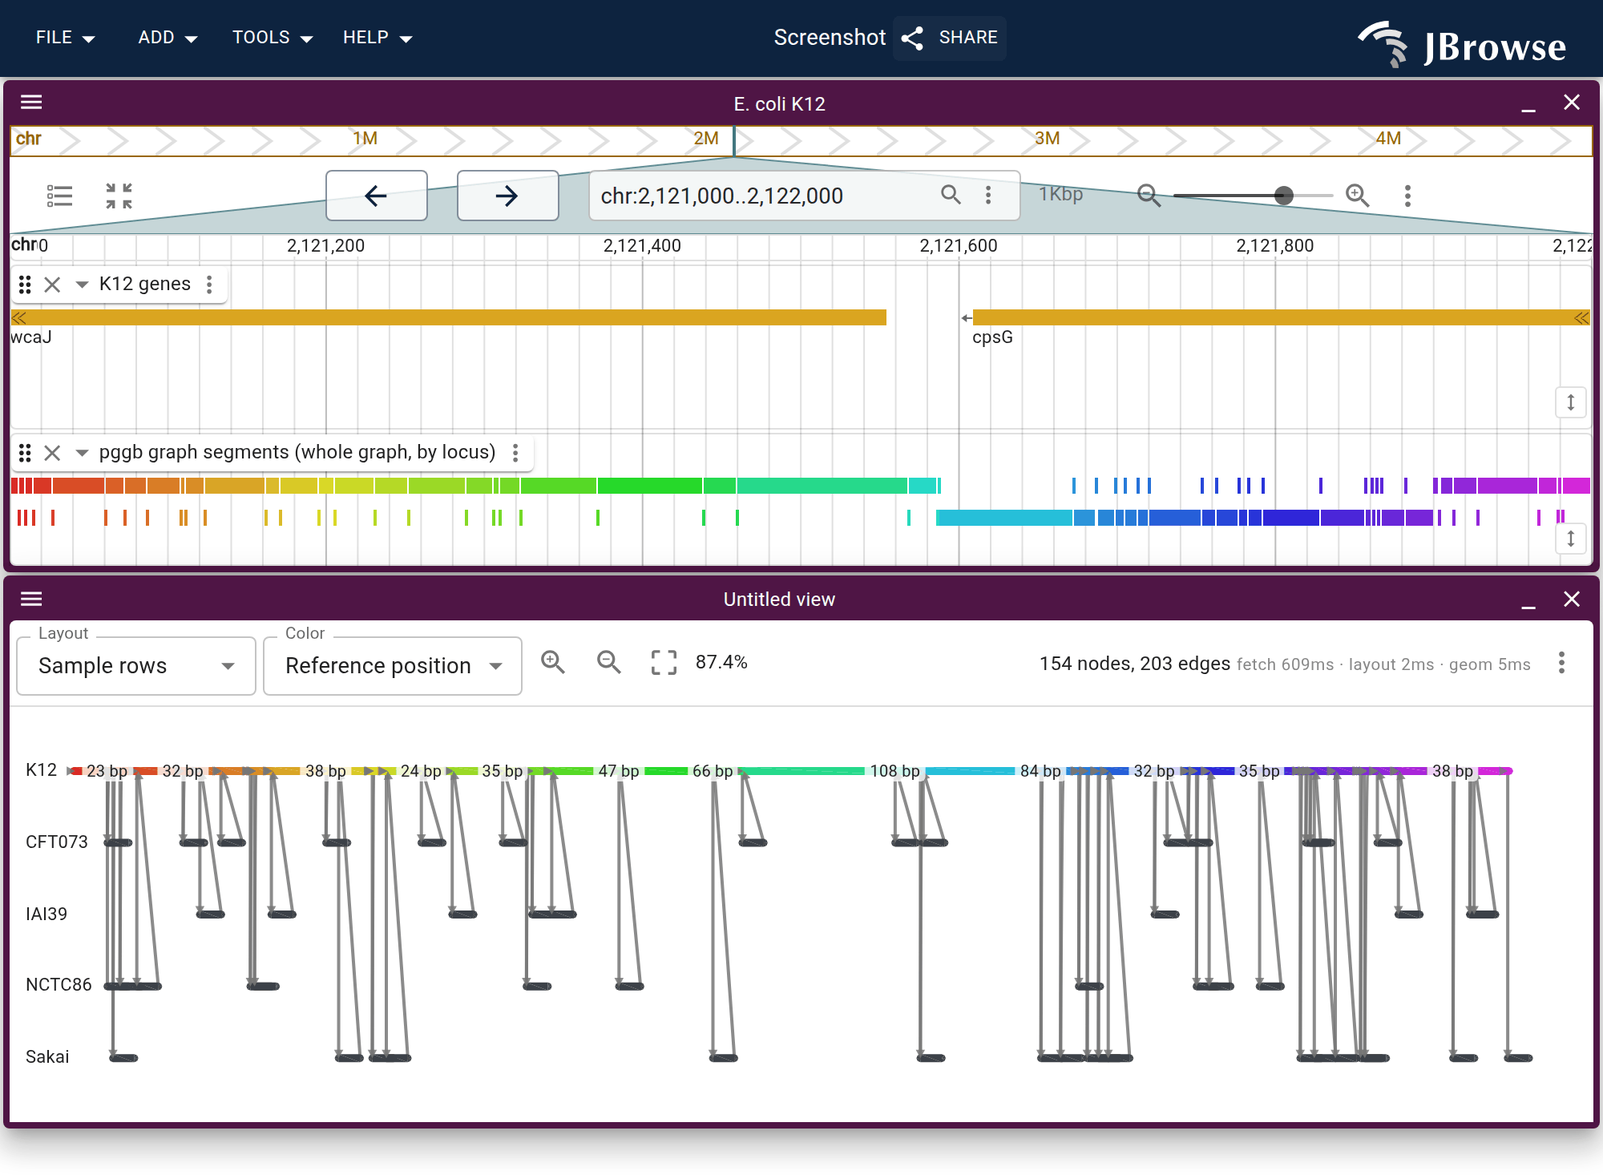
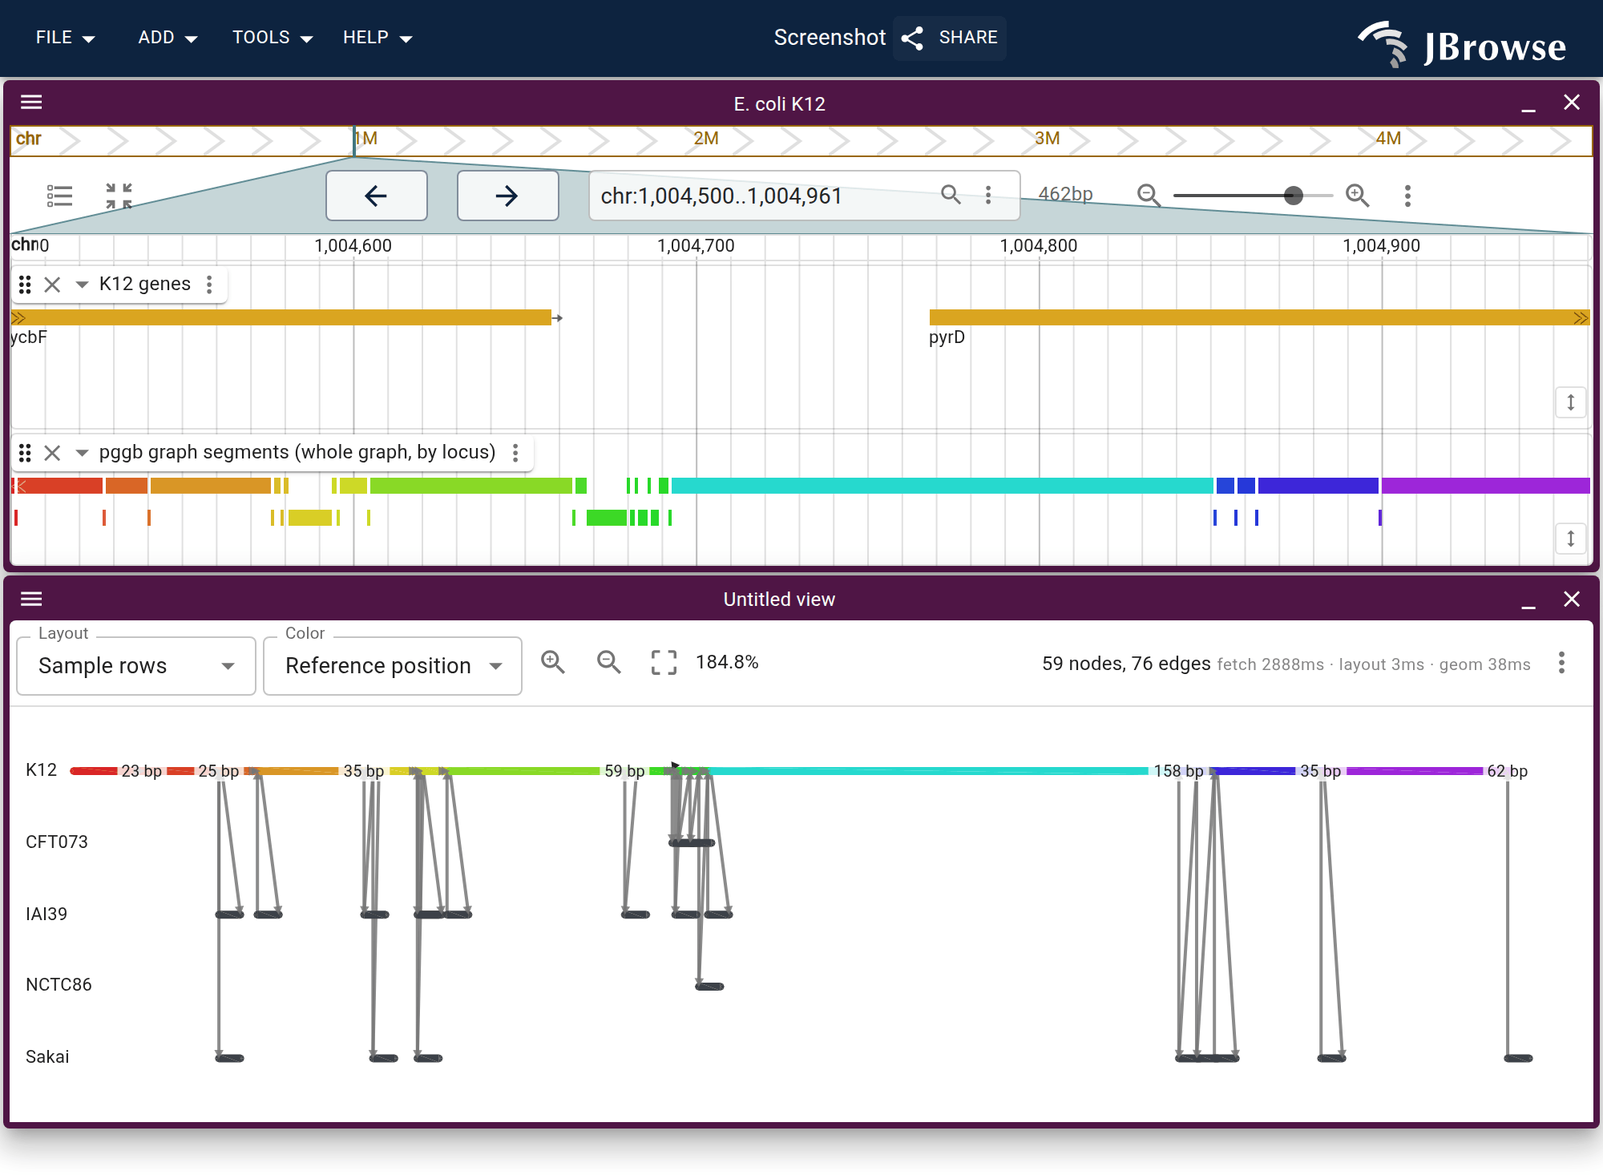
docs(pangenome): draw the pggb sample rows at a window where a row is readable
Open verdict: "too chaotic. too many tiny segments ... I know it shows the per
sample rows but i just dont get it". pggb cuts a segment at every variant, so the
kilobase the backbone-sweep figure uses is 154 nodes at about six pixels each,
and a row of six-pixel marks says nothing about what a strain carries. The rows
figure now takes the 460 bp window local_subgraph already draws, where the same
index returns 37 segments, the long ones are 59 and 158 bp, and the four strains
differ from each other at places a reader can point at. The sweep figure keeps
its kilobase; pggbLocusSession takes the window per figure.

diff --git a/website/src/lib/galleryLinks.generated.ts b/website/src/lib/galleryLinks.generated.ts
@@ -214,7 +214,7 @@ export const specSessionUrls: Record<string, string> = {
   "pangenome_cactus/graph_correspondence": "?config=https%3A%2F%2Fjbrowse.org%2Fdemos%2Fecoli_pangenome%2Fconfig.json&session=spec-%7B%22sessionTracks%22%3A%5B%7B%22type%22%3A%22MultiQuantitativeTrack%22%2C%22trackId%22%3A%22ecoli_cactus_pav_odgi_colors%22%2C%22name%22%3A%22MC%20graph%3A%20per-strain%20presence%20(odgi%20pav%2C%20vs%20K12)%22%2C%22assemblyNames%22%3A%5B%22K12%22%5D%2C%22adapter%22%3A%7B%22type%22%3A%22MultiWiggleAdapter%22%2C%22subadapters%22%3A%5B%7B%22type%22%3A%22BigWigAdapter%22%2C%22name%22%3A%22CFT073%22%2C%22color%22%3A%22rgb(163%2C68%2C151)%22%2C%22bigWigLocation%22%3A%7B%22uri%22%3A%22https%3A%2F%2Fjbrowse.org%2Fdemos%2Fecoli_pangenome%2Fecoli_cactus_pav_CFT073.bw%22%2C%22locationType%22%3A%22UriLocation%22%7D%7D%2C%7B%22type%22%3A%22BigWigAdapter%22%2C%22name%22%3A%22IAI39%22%2C%22color%22%3A%22rgb(114%2C190%2C79)%22%2C%22bigWigLocation%22%3A%7B%22uri%22%3A%22https%3A%2F%2Fjbrowse.org%2Fdemos%2Fecoli_pangenome%2Fecoli_cactus_pav_IAI39.bw%22%2C%22locationType%22%3A%22UriLocation%22%7D%7D%2C%7B%22type%22%3A%22BigWigAdapter%22%2C%22name%22%3A%22NCTC86%22%2C%22color%22%3A%22rgb(200%2C132%2C51)%22%2C%22bigWigLocation%22%3A%7B%22uri%22%3A%22https%3A%2F%2Fjbrowse.org%2Fdemos%2Fecoli_pangenome%2Fecoli_cactus_pav_NCTC86.bw%22%2C%22locationType%22%3A%22UriLocation%22%7D%7D%2C%7B%22type%22%3A%22BigWigAdapter%22%2C%22name%22%3A%22Sakai%22%2C%22color%22%3A%22rgb(164%2C163%2C56)%22%2C%22bigWigLocation%22%3A%7B%22uri%22%3A%22https%3A%2F%2Fjbrowse.org%2Fdemos%2Fecoli_pangenome%2Fecoli_cactus_pav_Sakai.bw%22%2C%22locationType%22%3A%22UriLocation%22%7D%7D%5D%7D%7D%5D%2C%22views%22%3A%5B%7B%22type%22%3A%22LinearGenomeView%22%2C%22assembly%22%3A%22K12%22%2C%22loc%22%3A%22chr%3A1-4%2C641%2C652%22%2C%22highlight%22%3A%5B%7B%22refName%22%3A%22chr%22%2C%22start%22%3A1000000%2C%22end%22%3A1100000%2C%22color%22%3A%22rgba(255%2C193%2C7%2C0.60)%22%7D%5D%2C%22tracks%22%3A%5B%7B%22trackId%22%3A%22ecoli_cactus_pav_odgi_colors%22%2C%22type%22%3A%22MultiLinearWiggleDisplay%22%2C%22defaultRendering%22%3A%22multirowdensity%22%2C%22minScore%22%3A0%2C%22maxScore%22%3A1%2C%22height%22%3A160%7D%5D%7D%5D%7D&sessionName=Screenshot",
   "pangenome_cactus/pav": "?config=https%3A%2F%2Fjbrowse.org%2Fdemos%2Fecoli_pangenome%2Fconfig.json&session=spec-%7B%22views%22%3A%5B%7B%22type%22%3A%22LinearGenomeView%22%2C%22assembly%22%3A%22K12%22%2C%22loc%22%3A%22chr%3A1-4%2C641%2C652%22%2C%22tracks%22%3A%5B%7B%22trackId%22%3A%22ecoli_cactus_depth%22%2C%22type%22%3A%22LinearWiggleDisplay%22%2C%22height%22%3A150%7D%2C%7B%22trackId%22%3A%22ecoli_cactus_pav%22%2C%22type%22%3A%22MultiLinearWiggleDisplay%22%2C%22height%22%3A240%7D%5D%7D%5D%7D&sessionName=Screenshot",
   "pangenome/pggb_locus_graph": "?config=test_data/graphgenomeview/config.json&session=spec-%7B%22sessionTracks%22%3A%5B%7B%22type%22%3A%22FeatureTrack%22%2C%22trackId%22%3A%22K12_genes%22%2C%22name%22%3A%22K12%20genes%22%2C%22assemblyNames%22%3A%5B%22K12%22%5D%2C%22adapter%22%3A%7B%22type%22%3A%22Gff3TabixAdapter%22%2C%22gffGzLocation%22%3A%7B%22uri%22%3A%22https%3A%2F%2Fjbrowse.org%2Fdemos%2Fecoli_pangenome%2FK12.gff.gz%22%7D%2C%22index%22%3A%7B%22location%22%3A%7B%22uri%22%3A%22https%3A%2F%2Fjbrowse.org%2Fdemos%2Fecoli_pangenome%2FK12.gff.gz.tbi%22%7D%7D%7D%7D%2C%7B%22type%22%3A%22FeatureTrack%22%2C%22trackId%22%3A%22ecoli_pggb_segments%22%2C%22name%22%3A%22pggb%20graph%20segments%20(whole%20graph%2C%20by%20locus)%22%2C%22assemblyNames%22%3A%5B%22K12%22%5D%2C%22adapter%22%3A%7B%22type%22%3A%22RgfaTabixAdapter%22%2C%22uri%22%3A%22https%3A%2F%2Fjbrowse.org%2Fdemos%2Fecoli_pangenome%2Fecoli_pggb%22%7D%7D%5D%2C%22views%22%3A%5B%7B%22type%22%3A%22LinearGenomeView%22%2C%22assembly%22%3A%22K12%22%2C%22loc%22%3A%22chr%3A2%2C121%2C000-2%2C122%2C000%22%2C%22tracks%22%3A%5B%7B%22trackId%22%3A%22K12_genes%22%2C%22type%22%3A%22LinearBasicDisplay%22%2C%22height%22%3A70%7D%2C%7B%22trackId%22%3A%22ecoli_pggb_segments%22%2C%22type%22%3A%22LinearBasicDisplay%22%2C%22showLabels%22%3A%22off%22%2C%22height%22%3A50%2C%22color%22%3A%22jexl%3Aget(feature%2C'rank')%3E0%20%3F%20'rgb(60%2C65%2C72)'%20%3A%20'hsl('%20%2B%20min(300%2C%20max(0%2C%20((get(feature%2C'start')%2Bget(feature%2C'end'))%2F2%20-%202121000)%20%2F%201000%20*%20300))%20%2B%20'%2C70%25%2C50%25)'%22%7D%5D%7D%2C%7B%22type%22%3A%22GraphGenomeView%22%2C%22loadedTrackId%22%3A%22ecoli_pggb_segments%22%2C%22loadedRegion%22%3A%7B%22refName%22%3A%22chr%22%2C%22assemblyName%22%3A%22K12%22%2C%22start%22%3A2121000%2C%22end%22%3A2122000%7D%2C%22layoutMode%22%3A%22auto%22%2C%22colorScheme%22%3A%22reference-position%22%7D%5D%7D&sessionName=Screenshot",
-  "pangenome/pggb_locus_sample_rows": "?config=test_data/graphgenomeview/config.json&session=spec-%7B%22sessionTracks%22%3A%5B%7B%22type%22%3A%22FeatureTrack%22%2C%22trackId%22%3A%22K12_genes%22%2C%22name%22%3A%22K12%20genes%22%2C%22assemblyNames%22%3A%5B%22K12%22%5D%2C%22adapter%22%3A%7B%22type%22%3A%22Gff3TabixAdapter%22%2C%22gffGzLocation%22%3A%7B%22uri%22%3A%22https%3A%2F%2Fjbrowse.org%2Fdemos%2Fecoli_pangenome%2FK12.gff.gz%22%7D%2C%22index%22%3A%7B%22location%22%3A%7B%22uri%22%3A%22https%3A%2F%2Fjbrowse.org%2Fdemos%2Fecoli_pangenome%2FK12.gff.gz.tbi%22%7D%7D%7D%7D%2C%7B%22type%22%3A%22FeatureTrack%22%2C%22trackId%22%3A%22ecoli_pggb_segments%22%2C%22name%22%3A%22pggb%20graph%20segments%20(whole%20graph%2C%20by%20locus)%22%2C%22assemblyNames%22%3A%5B%22K12%22%5D%2C%22adapter%22%3A%7B%22type%22%3A%22RgfaTabixAdapter%22%2C%22uri%22%3A%22https%3A%2F%2Fjbrowse.org%2Fdemos%2Fecoli_pangenome%2Fecoli_pggb%22%7D%7D%5D%2C%22views%22%3A%5B%7B%22type%22%3A%22LinearGenomeView%22%2C%22assembly%22%3A%22K12%22%2C%22loc%22%3A%22chr%3A2%2C121%2C000-2%2C122%2C000%22%2C%22tracks%22%3A%5B%7B%22trackId%22%3A%22K12_genes%22%2C%22type%22%3A%22LinearBasicDisplay%22%2C%22height%22%3A70%7D%2C%7B%22trackId%22%3A%22ecoli_pggb_segments%22%2C%22type%22%3A%22LinearBasicDisplay%22%2C%22showLabels%22%3A%22off%22%2C%22height%22%3A50%2C%22color%22%3A%22jexl%3Aget(feature%2C'rank')%3E0%20%3F%20'rgb(60%2C65%2C72)'%20%3A%20'hsl('%20%2B%20min(300%2C%20max(0%2C%20((get(feature%2C'start')%2Bget(feature%2C'end'))%2F2%20-%202121000)%20%2F%201000%20*%20300))%20%2B%20'%2C70%25%2C50%25)'%22%7D%5D%7D%2C%7B%22type%22%3A%22GraphGenomeView%22%2C%22loadedTrackId%22%3A%22ecoli_pggb_segments%22%2C%22loadedRegion%22%3A%7B%22refName%22%3A%22chr%22%2C%22assemblyName%22%3A%22K12%22%2C%22start%22%3A2121000%2C%22end%22%3A2122000%7D%2C%22layoutMode%22%3A%22samplerows%22%2C%22colorScheme%22%3A%22reference-position%22%7D%5D%7D&sessionName=Screenshot",
+  "pangenome/pggb_locus_sample_rows": "?config=test_data/graphgenomeview/config.json&session=spec-%7B%22sessionTracks%22%3A%5B%7B%22type%22%3A%22FeatureTrack%22%2C%22trackId%22%3A%22K12_genes%22%2C%22name%22%3A%22K12%20genes%22%2C%22assemblyNames%22%3A%5B%22K12%22%5D%2C%22adapter%22%3A%7B%22type%22%3A%22Gff3TabixAdapter%22%2C%22gffGzLocation%22%3A%7B%22uri%22%3A%22https%3A%2F%2Fjbrowse.org%2Fdemos%2Fecoli_pangenome%2FK12.gff.gz%22%7D%2C%22index%22%3A%7B%22location%22%3A%7B%22uri%22%3A%22https%3A%2F%2Fjbrowse.org%2Fdemos%2Fecoli_pangenome%2FK12.gff.gz.tbi%22%7D%7D%7D%7D%2C%7B%22type%22%3A%22FeatureTrack%22%2C%22trackId%22%3A%22ecoli_pggb_segments%22%2C%22name%22%3A%22pggb%20graph%20segments%20(whole%20graph%2C%20by%20locus)%22%2C%22assemblyNames%22%3A%5B%22K12%22%5D%2C%22adapter%22%3A%7B%22type%22%3A%22RgfaTabixAdapter%22%2C%22uri%22%3A%22https%3A%2F%2Fjbrowse.org%2Fdemos%2Fecoli_pangenome%2Fecoli_pggb%22%7D%7D%5D%2C%22views%22%3A%5B%7B%22type%22%3A%22LinearGenomeView%22%2C%22assembly%22%3A%22K12%22%2C%22loc%22%3A%22chr%3A1%2C004%2C500-1%2C004%2C961%22%2C%22tracks%22%3A%5B%7B%22trackId%22%3A%22K12_genes%22%2C%22type%22%3A%22LinearBasicDisplay%22%2C%22height%22%3A70%7D%2C%7B%22trackId%22%3A%22ecoli_pggb_segments%22%2C%22type%22%3A%22LinearBasicDisplay%22%2C%22showLabels%22%3A%22off%22%2C%22height%22%3A50%2C%22color%22%3A%22jexl%3Aget(feature%2C'rank')%3E0%20%3F%20'rgb(60%2C65%2C72)'%20%3A%20'hsl('%20%2B%20min(300%2C%20max(0%2C%20((get(feature%2C'start')%2Bget(feature%2C'end'))%2F2%20-%201004500)%20%2F%20461%20*%20300))%20%2B%20'%2C70%25%2C50%25)'%22%7D%5D%7D%2C%7B%22type%22%3A%22GraphGenomeView%22%2C%22loadedTrackId%22%3A%22ecoli_pggb_segments%22%2C%22loadedRegion%22%3A%7B%22refName%22%3A%22chr%22%2C%22assemblyName%22%3A%22K12%22%2C%22start%22%3A1004500%2C%22end%22%3A1004961%7D%2C%22layoutMode%22%3A%22samplerows%22%2C%22colorScheme%22%3A%22reference-position%22%7D%5D%7D&sessionName=Screenshot",
   "pangenome/local_subgraph_anchored": "?config=test_data/graphgenomeview/config.json&session=spec-%7B%22sessionTracks%22%3A%5B%7B%22type%22%3A%22FeatureTrack%22%2C%22trackId%22%3A%22K12_genes%22%2C%22name%22%3A%22K12%20genes%22%2C%22assemblyNames%22%3A%5B%22K12%22%5D%2C%22adapter%22%3A%7B%22type%22%3A%22Gff3TabixAdapter%22%2C%22gffGzLocation%22%3A%7B%22uri%22%3A%22https%3A%2F%2Fjbrowse.org%2Fdemos%2Fecoli_pangenome%2FK12.gff.gz%22%7D%2C%22index%22%3A%7B%22location%22%3A%7B%22uri%22%3A%22https%3A%2F%2Fjbrowse.org%2Fdemos%2Fecoli_pangenome%2FK12.gff.gz.tbi%22%7D%7D%7D%7D%2C%7B%22type%22%3A%22FeatureTrack%22%2C%22trackId%22%3A%22ecoli_pggb_subgraph_nodes%22%2C%22name%22%3A%22pggb%20subgraph%3A%20nodes%20on%20K12%2C%20colored%20by%20depth%22%2C%22assemblyNames%22%3A%5B%22K12%22%5D%2C%22adapter%22%3A%7B%22type%22%3A%22BedTabixAdapter%22%2C%22uri%22%3A%22https%3A%2F%2Fjbrowse.org%2Fdemos%2Fecoli_pangenome%2Fecoli_pggb_subgraph_nodes.bed.gz%22%2C%22columnNames%22%3A%5B%22chrom%22%2C%22start%22%2C%22end%22%2C%22name%22%2C%22depth%22%2C%22strand%22%2C%22thickStart%22%2C%22thickEnd%22%2C%22itemRgb%22%5D%7D%7D%5D%2C%22views%22%3A%5B%7B%22type%22%3A%22LinearGenomeView%22%2C%22assembly%22%3A%22K12%22%2C%22loc%22%3A%22chr%3A1%2C004%2C450-1%2C005%2C010%22%2C%22tracks%22%3A%5B%7B%22trackId%22%3A%22ecoli_pggb_subgraph_nodes%22%2C%22type%22%3A%22LinearBasicDisplay%22%2C%22displayMode%22%3A%22collapsed%22%2C%22height%22%3A40%7D%2C%7B%22trackId%22%3A%22K12_genes%22%2C%22type%22%3A%22LinearBasicDisplay%22%2C%22height%22%3A60%2C%22color%22%3A%22rgb(130%2C130%2C130)%22%7D%5D%7D%2C%7B%22type%22%3A%22GraphGenomeView%22%2C%22gfaLocation%22%3A%7B%22uri%22%3A%22https%3A%2F%2Fjbrowse.org%2Fdemos%2Fecoli_pangenome%2Fecoli_pggb_subgraph.gfa%22%7D%2C%22colorScheme%22%3A%22depth%22%2C%22layoutMode%22%3A%22auto%22%2C%22referencePath%22%3A%22K12%22%7D%5D%7D&sessionName=Screenshot",
   "pangenome/local_subgraph_force": "?config=test_data/graphgenomeview/config.json&session=spec-%7B%22sessionTracks%22%3A%5B%7B%22type%22%3A%22FeatureTrack%22%2C%22trackId%22%3A%22K12_genes%22%2C%22name%22%3A%22K12%20genes%22%2C%22assemblyNames%22%3A%5B%22K12%22%5D%2C%22adapter%22%3A%7B%22type%22%3A%22Gff3TabixAdapter%22%2C%22gffGzLocation%22%3A%7B%22uri%22%3A%22https%3A%2F%2Fjbrowse.org%2Fdemos%2Fecoli_pangenome%2FK12.gff.gz%22%7D%2C%22index%22%3A%7B%22location%22%3A%7B%22uri%22%3A%22https%3A%2F%2Fjbrowse.org%2Fdemos%2Fecoli_pangenome%2FK12.gff.gz.tbi%22%7D%7D%7D%7D%2C%7B%22type%22%3A%22FeatureTrack%22%2C%22trackId%22%3A%22ecoli_pggb_subgraph_nodes%22%2C%22name%22%3A%22pggb%20subgraph%3A%20nodes%20on%20K12%2C%20colored%20by%20depth%22%2C%22assemblyNames%22%3A%5B%22K12%22%5D%2C%22adapter%22%3A%7B%22type%22%3A%22BedTabixAdapter%22%2C%22uri%22%3A%22https%3A%2F%2Fjbrowse.org%2Fdemos%2Fecoli_pangenome%2Fecoli_pggb_subgraph_nodes.bed.gz%22%2C%22columnNames%22%3A%5B%22chrom%22%2C%22start%22%2C%22end%22%2C%22name%22%2C%22depth%22%2C%22strand%22%2C%22thickStart%22%2C%22thickEnd%22%2C%22itemRgb%22%5D%7D%7D%5D%2C%22views%22%3A%5B%7B%22type%22%3A%22LinearGenomeView%22%2C%22assembly%22%3A%22K12%22%2C%22loc%22%3A%22chr%3A1%2C004%2C450-1%2C005%2C010%22%2C%22tracks%22%3A%5B%7B%22trackId%22%3A%22ecoli_pggb_subgraph_nodes%22%2C%22type%22%3A%22LinearBasicDisplay%22%2C%22displayMode%22%3A%22collapsed%22%2C%22height%22%3A40%7D%2C%7B%22trackId%22%3A%22K12_genes%22%2C%22type%22%3A%22LinearBasicDisplay%22%2C%22height%22%3A60%2C%22color%22%3A%22rgb(130%2C130%2C130)%22%7D%5D%7D%2C%7B%22type%22%3A%22GraphGenomeView%22%2C%22gfaLocation%22%3A%7B%22uri%22%3A%22https%3A%2F%2Fjbrowse.org%2Fdemos%2Fecoli_pangenome%2Fecoli_pggb_subgraph.gfa%22%7D%2C%22colorScheme%22%3A%22depth%22%2C%22layoutMode%22%3A%22force%22%2C%22referencePath%22%3A%22K12%22%7D%5D%7D&sessionName=Screenshot",
   "pangenome/rgfa_subgraph_launch": "?config=test_data/graphgenomeview/config.json&session=spec-%7B%22sessionTracks%22%3A%5B%7B%22type%22%3A%22FeatureTrack%22%2C%22trackId%22%3A%22ecoli_minigraph_segments%22%2C%22name%22%3A%22minigraph%20graph%20segments%20(rGFA)%22%2C%22assemblyNames%22%3A%5B%22K12%22%5D%2C%22adapter%22%3A%7B%22type%22%3A%22RgfaTabixAdapter%22%2C%22uri%22%3A%22https%3A%2F%2Fjbrowse.org%2Fdemos%2Fecoli_pangenome%2Fecoli_minigraph%22%7D%2C%22displayDefaults%22%3A%7B%22color%22%3A%22jexl%3Aget(feature%2C'rank')%3D%3D0%3F'rgb(52%2C152%2C219)'%3A'rgb(237%2C137%2C44)'%22%7D%7D%5D%2C%22views%22%3A%5B%7B%22type%22%3A%22LinearGenomeView%22%2C%22assembly%22%3A%22K12%22%2C%22loc%22%3A%22chr%3A4%2C050%2C000-4%2C100%2C000%22%2C%22tracks%22%3A%5B%7B%22trackId%22%3A%22ecoli_minigraph_segments%22%2C%22type%22%3A%22LinearBasicDisplay%22%2C%22color%22%3A%22jexl%3Aget(feature%2C'rank')%3E0%20%3F%20'rgb(60%2C65%2C72)'%20%3A%20'hsl('%20%2B%20min(300%2C%20max(0%2C%20((get(feature%2C'start')%2Bget(feature%2C'end'))%2F2%20-%204050000)%20%2F%2050000%20*%20300))%20%2B%20'%2C70%25%2C50%25)'%22%7D%5D%7D%2C%7B%22type%22%3A%22GraphGenomeView%22%2C%22loadedTrackId%22%3A%22ecoli_minigraph_segments%22%2C%22loadedRegion%22%3A%7B%22refName%22%3A%22chr%22%2C%22assemblyName%22%3A%22K12%22%2C%22start%22%3A4050000%2C%22end%22%3A4100000%7D%2C%22layoutMode%22%3A%22auto%22%2C%22colorScheme%22%3A%22reference-position%22%7D%5D%7D&sessionName=Screenshot",

diff --git a/website/scripts/specs/graph.ts b/website/scripts/specs/graph.ts
@@ -158,6 +158,24 @@ const PGGB_LOCUS = {
 }
 const PGGB_LOCUS_WINDOW = 'chr:2,121,000-2,122,000'
 
+// The per-strain window, which cannot be the kilobase above (review of the sample
+// rows figure: "too chaotic. too many tiny segments ... I know it shows the per
+// sample rows but i just dont get it"). pggb cuts a segment at every variant, so
+// that window is 154 nodes -- about 6 px each, and a row of 6 px marks says
+// nothing about what a strain carries. This is the window local_subgraph draws,
+// where the same index returns 37 segments, the long ones are 59 and 158 bp, and
+// the strains genuinely differ: CFT073's contig only reaches the last 293 bp
+// (`tabix ecoli_pggb.segs.bed.gz 'K12#1#chr:1004500-1004961'`, whose sixth column
+// lists the strains carrying each segment), so its row starts where it joins and
+// the tutorial already explains that boundary as ycbF ending and pyrD starting.
+const PGGB_ROWS_LOCUS = {
+  refName: 'chr',
+  assemblyName: 'K12',
+  start: 1004500,
+  end: 1004961,
+}
+const PGGB_ROWS_WINDOW = 'chr:1,004,500-1,004,961'
+
 // The same graph read per strain instead of per segment: one row per strain,
 // each block that strain's allele at one bubble, from the BED
 // scripts/build_minigraph_paths.sh projects out of `minigraph --call`.
@@ -623,16 +641,21 @@ function ecoliHoverSession() {
   })
 }
 
-// The pggb pair: same locus, same colors, one in each anchored layout. Both name
-// their layout, because the view's own default is the force drawing.
-function pggbLocusSession(layoutMode: 'auto' | 'samplerows') {
+// The pggb pair: the same track in two anchored layouts. Both name their layout,
+// because the view's own default is the force drawing, and each takes its own
+// window: a kilobase is the right scale for the backbone sweep and far too dense
+// for per-strain rows (see PGGB_ROWS_LOCUS).
+function pggbLocusSession(
+  layoutMode: 'auto' | 'samplerows',
+  { region, window }: { region: typeof PGGB_LOCUS; window: string },
+) {
   return sessionSpec(CONFIG, {
     sessionTracks: [K12_GENES_SESSION_TRACK, PGGB_SEGMENTS_SESSION_TRACK],
     views: [
       {
         type: 'LinearGenomeView',
         assembly: 'K12',
-        loc: PGGB_LOCUS_WINDOW,
+        loc: window,
         tracks: [
           { trackId: 'K12_genes', type: 'LinearBasicDisplay', height: 70 },
           {
@@ -642,14 +665,14 @@ function pggbLocusSession(layoutMode: 'auto' | 'samplerows') {
             // integer ids, and the lane is here for the color sweep
             showLabels: 'off',
             height: 50,
-            color: referencePositionColor(PGGB_LOCUS),
+            color: referencePositionColor(region),
           },
         ],
       },
       {
         type: 'GraphGenomeView',
         loadedTrackId: PGGB_SEGMENTS_TRACK,
-        loadedRegion: PGGB_LOCUS,
+        loadedRegion: region,
         layoutMode,
         colorScheme: 'reference-position',
       },
@@ -908,7 +931,10 @@ export const graphSpecs: ScreenshotSpec[] = [
   {
     mode: 'url',
     name: 'pangenome/pggb_locus_graph',
-    url: pggbLocusSession('auto'),
+    url: pggbLocusSession('auto', {
+      region: PGGB_LOCUS,
+      window: PGGB_LOCUS_WINDOW,
+    }),
     readySelector: TOOLBAR_READY,
     readyTimeout: 120000,
     settleMs: 5000,
@@ -924,12 +950,18 @@ export const graphSpecs: ScreenshotSpec[] = [
   // that a row is first-seen attribution. Here the name comes from a path that
   // actually walks the segment, so a row is carriage.
   //
-  // Same window and same colors as the figure above, so the pair reads as one
-  // graph seen two ways rather than as two loci.
+  // Same track and same colors as the figure above, at PGGB_ROWS_LOCUS rather than
+  // at its kilobase: rows are what this figure is for, and a row has to be
+  // readable segment by segment. Here the five rows differ from each other in
+  // ways a reader can name -- CFT073 absent from the left half of the window, the
+  // 1 bp nodes taken by some strains and not others.
   {
     mode: 'url',
     name: 'pangenome/pggb_locus_sample_rows',
-    url: pggbLocusSession('samplerows'),
+    url: pggbLocusSession('samplerows', {
+      region: PGGB_ROWS_LOCUS,
+      window: PGGB_ROWS_WINDOW,
+    }),
     readySelector:
       'body:has([data-testid="graph-row-label"]) [data-testid="graph-layout-select"]',
     readyTimeout: 120000,

diff --git a/website/docs/tutorials/dog10k_retrogene.md b/website/docs/tutorials/dog10k_retrogene.md
@@ -23,10 +23,9 @@ To build the tracks:
 ## The variant that is not there
 
 [Parker et al. (2009)](https://doi.org/10.1126/science.1173275) tied
-breed-defining short legs to an expressed _FGF4_
-retrogene: a processed copy of the _FGF4_ transcript, reinserted somewhere else
-in the genome. Processed means it was made from the spliced mRNA, so the copy
-has no introns.
+breed-defining short legs to an expressed _FGF4_ retrogene: a processed copy of
+the _FGF4_ transcript, reinserted somewhere else in the genome. Processed means
+it was made from the spliced mRNA, so the copy has no introns.
 
 That is what makes it findable without knowing where it landed. Short reads from
 the retrocopy map to the parent gene, because the parent's exons are the
@@ -135,9 +134,8 @@ never sees the homozygous loss a real deletion would give it.
 
 Two _FGF4_ retrocopies are known in dogs. Parker et al. tied one to short legs;
 [Brown et al. (2017)](https://doi.org/10.1073/pnas.1709082114) tied a second, on
-a different chromosome, to
-chondrodystrophy and intervertebral disc disease, which is why breeds of
-ordinary proportions carry a copy too.
+a different chromosome, to chondrodystrophy and intervertebral disc disease,
+which is why breeds of ordinary proportions carry a copy too.
 
 Both are copies of the same transcript, so both leave the same footprint at the
 parent gene, and one record here cannot say which. That is why the swatch says

diff --git a/website/docs/user_guides/graph_genome_view.md b/website/docs/user_guides/graph_genome_view.md
@@ -179,7 +179,7 @@ locus one rank holds alleles from many haplotypes, so a rank row means nothing
 biological. **Sample rows** rows by the assembly each allele came from instead,
 so reading across a row says what that strain does to the reference.
 
-<Figure caption="A kilobase of the pggb graph in the Sample rows layout, under the genes and the segments lane for the same window. The top row is the K12 backbone, colored by reference position; each row below it is one strain, and its charcoal marks are the segments that strain takes instead, tied by grey threads to where they attach." src="/img/pangenome/pggb_locus_sample_rows.png" />
+<Figure caption="460 bp of the pggb graph in the Sample rows layout, under the genes and the segments lane for the same window. The top row is the K12 backbone, each segment labelled with its length; each row below it is one strain, and its charcoal marks are the segments that strain takes instead, tied by grey threads to where they attach." src="/img/pangenome/pggb_locus_sample_rows.png" />
 
 What "came from" means depends on the format, and it is the one place the two
 formats say genuinely different things. On rGFA it is the strain that _first

diff --git a/website/docs/tutorials/pangenome_ecoli.md b/website/docs/tutorials/pangenome_ecoli.md
@@ -449,7 +449,11 @@ graph a row means carriage, since it names a path that actually walks the
 segment. On an rGFA it means build order instead, because minigraph's `SR` names
 the assembly that contributed the segment first.
 
-<Figure caption="The same window in Sample rows. Each row is one strain and each mark is a segment that strain carries, colored by where on K12 it sits, so a bubble shows which strains take which route through it." src="/img/pangenome/pggb_locus_sample_rows.png" />
+Rows want a narrower window than the sweep above. A row draws what a strain
+takes _instead of_ the reference, so it is read segment by segment, and at 17 bp
+per segment a kilobase leaves each one a few pixels wide.
+
+<Figure caption="460 bp of the same graph in Sample rows, at the ycbF/pyrD boundary. The top row is the K12 backbone with each segment's length on it; below it each strain's marks are the segments it takes instead of the reference, tied by threads to where they attach. Sakai and IAI39 have marks at several places, CFT073 and NCTC86 at one or two." src="/img/pangenome/pggb_locus_sample_rows.png" />
 
 #### Where this stops, and what to do instead
 
